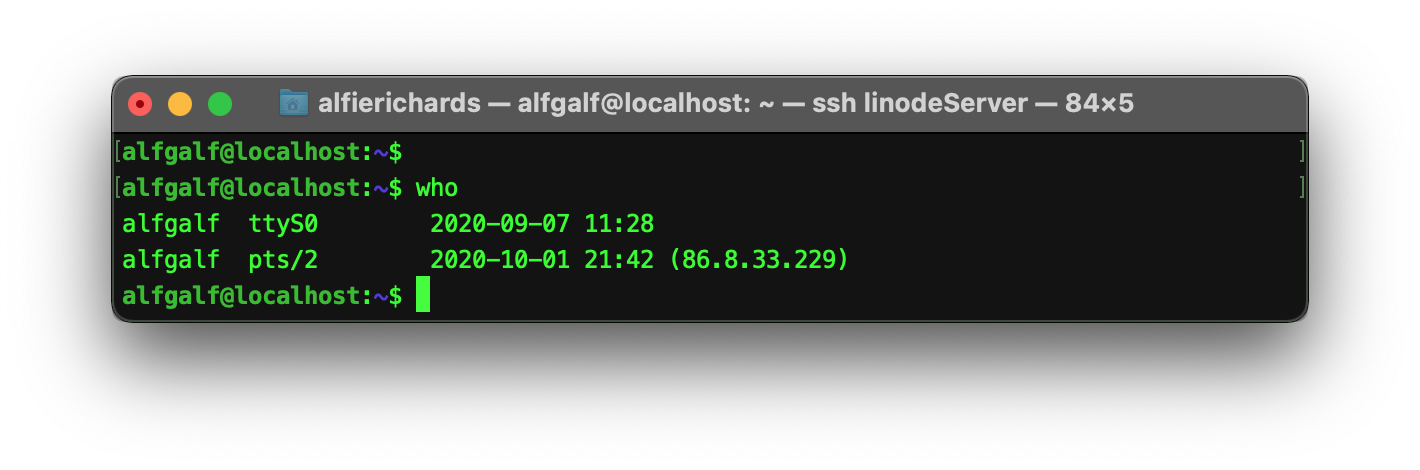
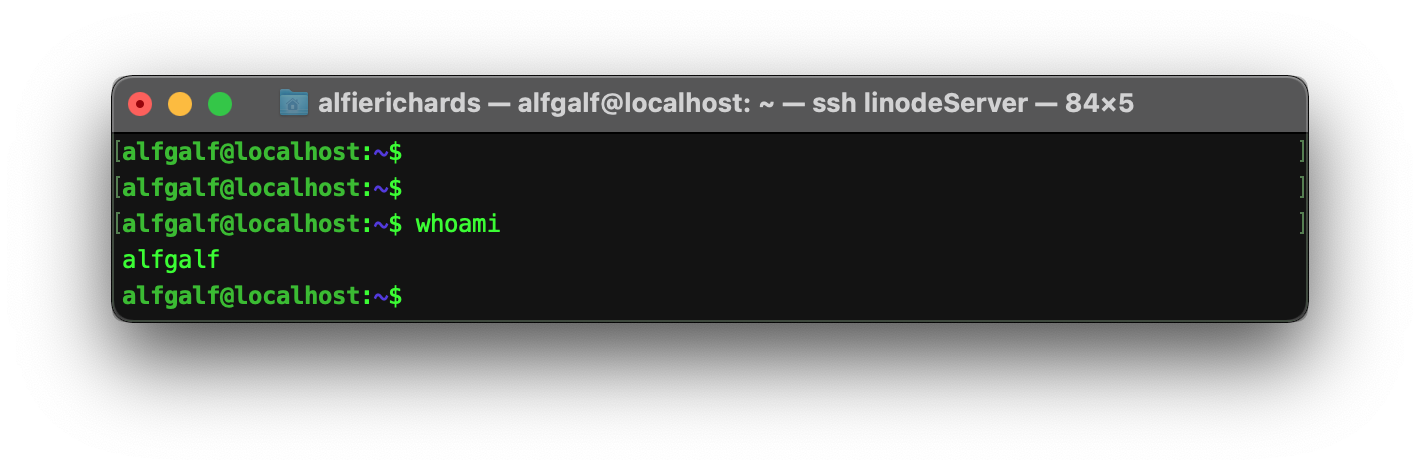
Started Unix

Changed region(s): [[0.062, 0.4468, 0.5887, 0.6553], [0.1549, 0.5362, 0.2479, 0.5957], [0.2789, 0.3872, 0.3408, 0.417]]

diff --git a/docs/UNIX_shell.md b/docs/UNIX_shell.md
@@ -103,7 +103,13 @@ Combining this with cd and relative paths we can use `cd ..` to mavigate to the 
 
 UNIX has a user system, and different users can access different files and different commands.
 
-You can check what user you are with the `who` command.
+You can check what user you are with the `whoami` command.
 
 ![WhoCommand](Assets/UNIX_Shell/whoCommand.png)
+
+You can then change users by using the `su` command followed by the user you want to switch to 
+("root" is the super user in unix sho has all privaledges, you shouldnt normally work as root 
+because you might do something destructive by accident).
+
+![WhoCommand](Assets/UNIX_Shell/suCommand.png)
 
